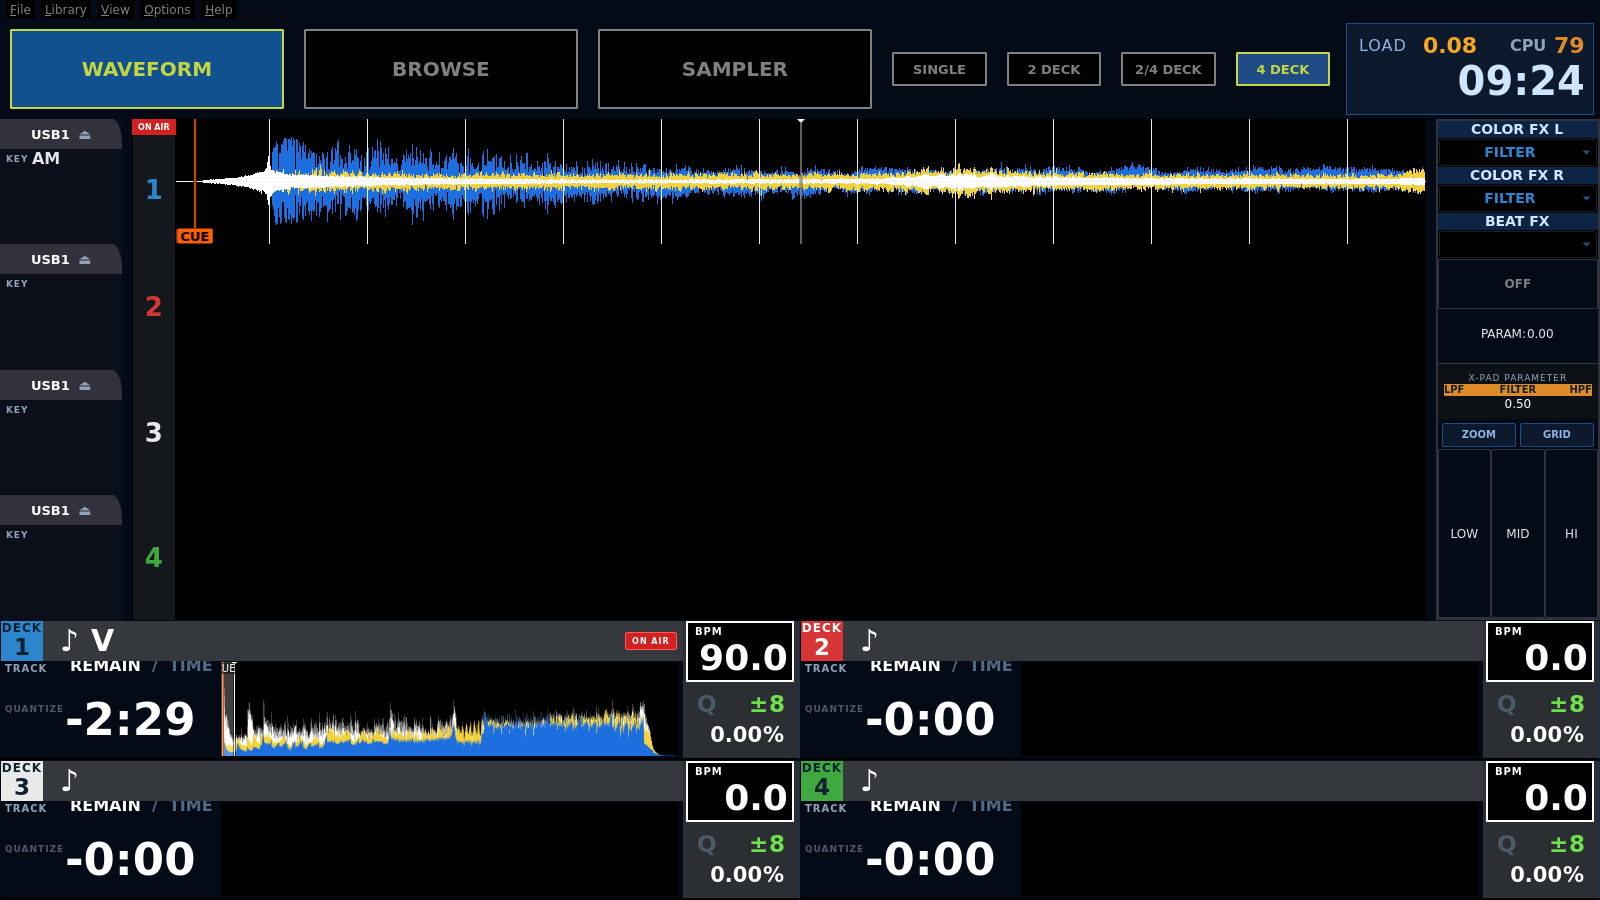
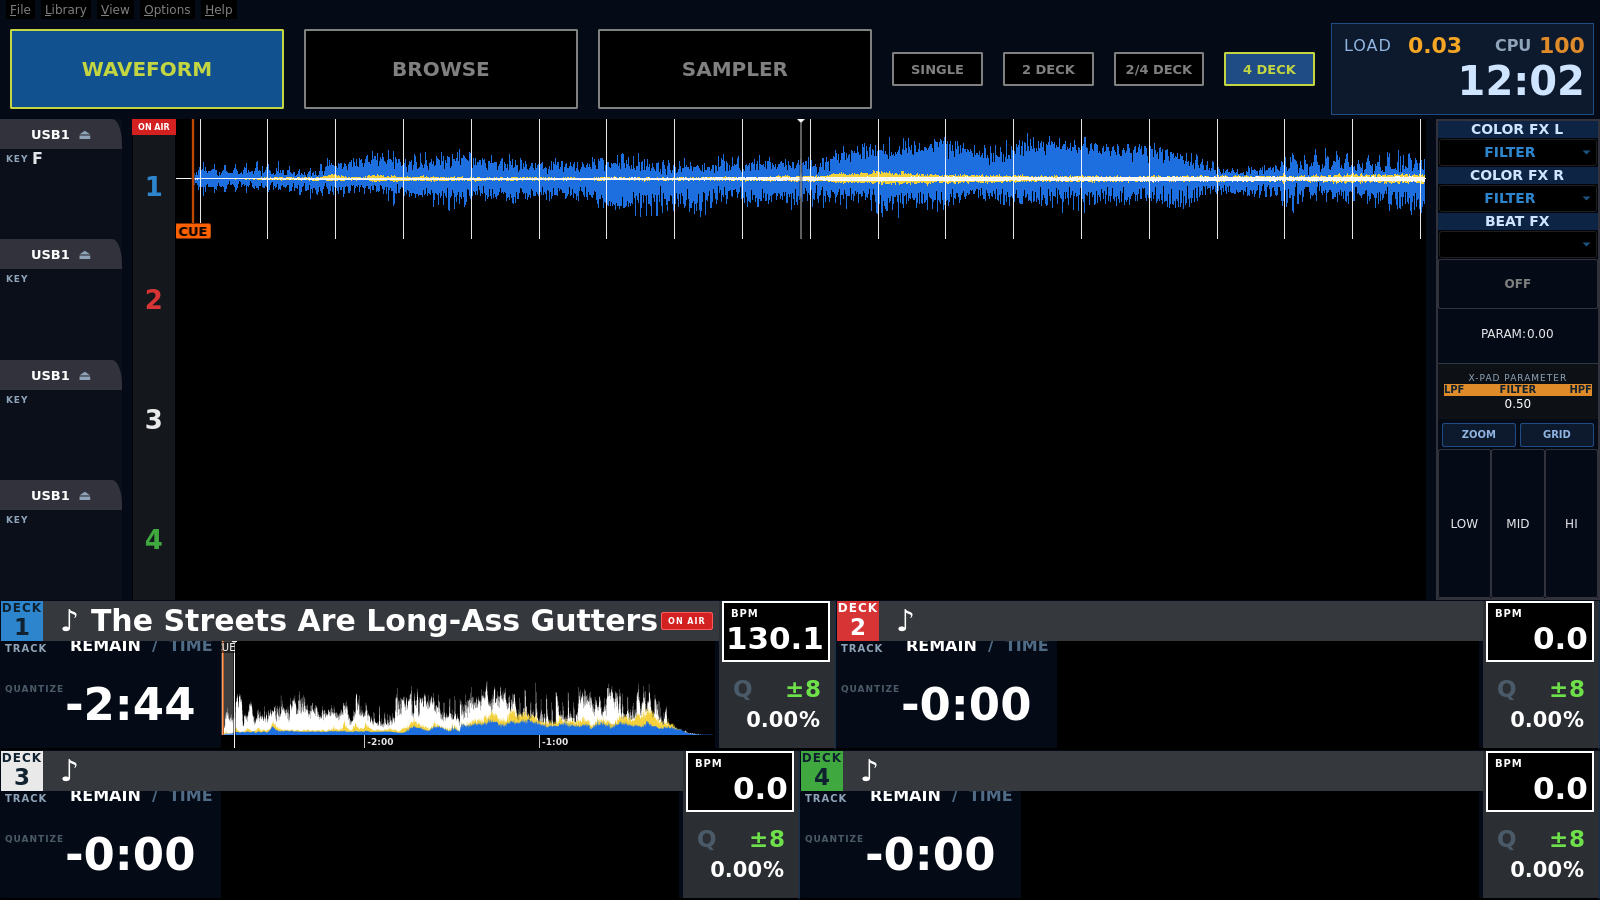
Deck view selector, CPU display, card drop target, minute ruler, marquee titles

diff --git a/patch-skin-xz.py b/patch-skin-xz.py
@@ -1897,8 +1897,8 @@ QSS_20 = """
 
 /* Only the upper lobe of the overview is visible; the rest is clipped. */
 #DeckOverviewContainer {
-  max-height: 94px;
-  min-height: 94px;
+  max-height: 107px;
+  min-height: 107px;
 }
 """
 
@@ -2309,7 +2309,7 @@ QSS_28 = """
   max-height: 55px;
 }
 #DeckHeaderBpmTitle { font-size: 10px; }
-#DeckHeaderBpmValue { font-size: 36px; }
+#DeckHeaderBpmValue { font-size: 31px; }
 
 #DeckTempoPanel {
   margin: 0;
@@ -2827,6 +2827,66 @@ def step_az_details() -> int:
 
     swap_qss("step 32: AZ details", QSS_32)
     return 0 if check_xml("deck.xml", "waveform.xml", "topbar.xml") else 1
+
+
+# ---------------------------------------------------------------- step 33
+
+# The whole deck card becomes a track drop target: retag the root group to
+# TrackWidgetGroup (built into Mixxx 2.5: whole-area drop, drag-out, context
+# menu). The dropHover property comes from our patched build and lights the
+# card a drag is hovering over.
+QSS_33 = """
+
+/* Card lights up while a track drag hovers over it. */
+#Deck[dropHover="true"] {
+  border: 2px solid #f2d13c;
+}
+"""
+
+
+def step_card_drop() -> int:
+    path = SKIN / "deck.xml"
+    text = path.read_text(encoding="utf-8")
+
+    if "<TrackWidgetGroup>" in text:
+        print("  deck.xml: card already a drop target")
+    else:
+        marker = "<ObjectName>Deck</ObjectName>"
+        open_at = text.rindex("<WidgetGroup>", 0, text.index(marker))
+        text = text[:open_at] + "<TrackWidgetGroup>" + text[open_at + len("<WidgetGroup>"):]
+        idx = text.index(marker) + len(marker)
+        text = text[:idx] + NL + '    <Group>[Channel<Variable name="channel"/>]</Group>' + text[idx:]
+        close_at = text.rindex("</WidgetGroup>")
+        text = text[:close_at] + "</TrackWidgetGroup>" + text[close_at + len("</WidgetGroup>"):]
+        path.write_text(text, encoding="utf-8")
+        print("  deck.xml: whole card accepts track drops")
+
+    swap_qss("step 33: card drop hover", QSS_33)
+    return 0 if check_xml("deck.xml") else 1
+
+
+# ---------------------------------------------------------------- step 34
+
+# Long titles bounce instead of pushing the card apart. Needs the patched
+# build: WLabel understands <Elide>scroll</Elide> there.
+def step_marquee_title() -> int:
+    path = SKIN / "deck.xml"
+    text = path.read_text(encoding="utf-8")
+    marker = "<ObjectName>DeckTitle</ObjectName>"
+    idx = text.index(marker)
+    end = text.index("</TrackProperty>", idx)
+    block = text[idx:end]
+    if "<Elide>scroll</Elide>" in block:
+        print("  deck.xml: title already scrolls")
+        return 0
+    new_block = block.replace("<Elide>right</Elide>", "<Elide>scroll</Elide>", 1)
+    if new_block == block:
+        print("  ! title elide tag not matched")
+        return 1
+    text = text[:idx] + new_block + text[end:]
+    path.write_text(text, encoding="utf-8")
+    print("  deck.xml: long titles scroll")
+    return 0 if check_xml("deck.xml") else 1
 
 
 # ---------------------------------------------------------------- main

diff --git a/README.md b/README.md
@@ -60,4 +60,18 @@ színeivel), `WaveformOverviewType 0`, `TimeFormat 1`, `PositionDisplay 1`.
 - A Qt a `min-width`-et a tartalomra érti, a padding/border rájön — fix
   szélesség helyett az oszlop méretez.
 
+## Patchelt Mixxx (idő-vonalzó + drop hover + marquee cím)
+
+A Release-hez csatolt `.deb` (arm64, Debian Trixie / Raspberry Pi OS) három
+kiegészítést tartalmaz a gyári 2.5.0-hoz képest:
+
+- perc-vonalzó a kártya hullámformája alatt (`-4:00 -3:00 …`)
+- `dropHover` property a `TrackWidgetGroup`-on — a kártya kiemelhető, amíg
+  track-et húznak fölé
+- `<Elide>scroll</Elide>` a WLabel-ben: a hosszú cím ide-oda úszik, és nem
+  tolja szét a kártyát
+
+Telepítés: `sudo dpkg -i mixxx-data_*.deb mixxx_*.deb`. Újraépítés:
+`pi-setup/build-mixxx-ruler.sh`.
+
 GPL-3.0, a bázis skin licencét örökli.
